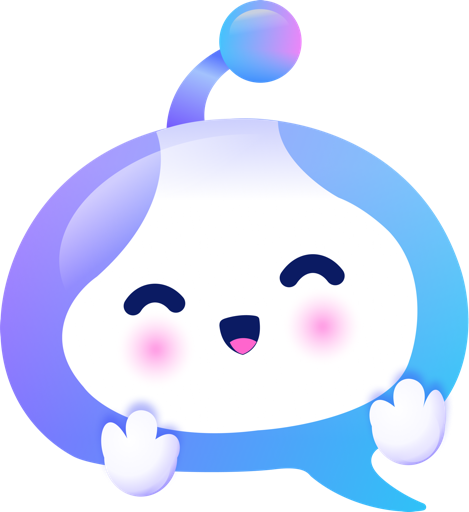
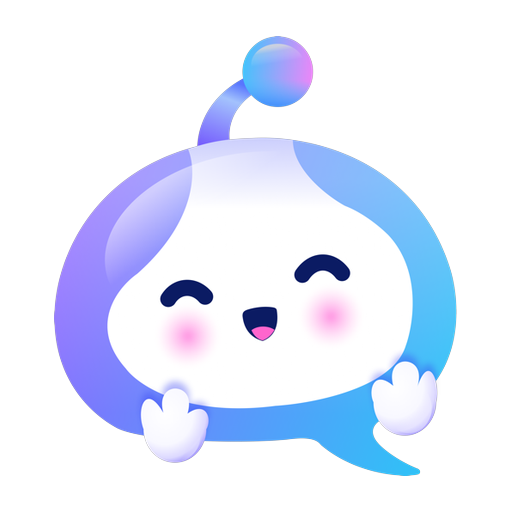
Prepare 1.0.1 for the Claude and OpenAI plugin directories
- Listing wording updates in the Claude and Codex manifests.
- Square 512px icon, as both directories expect.
- README states what the plugin runs and sends, for the security scan.
- docs/directory-listing.md: portal steps, data-handling answers,
  Codex listing fields, starter prompts, test cases and release notes.
- validate.mjs skips stray files such as .DS_Store; dist/ is ignored.

diff --git a/docs/directory-listing.md b/docs/directory-listing.md
@@ -1,0 +1,80 @@
+# Directory listing kit
+
+Everything needed to list this plugin in Anthropic's plugin directory (Claude Code, claude.ai, Cowork) and OpenAI's Plugins Directory (Codex, ChatGPT). Both are submitted by a person from a signed-in account; neither accepts a pull request.
+
+## Anthropic plugin directory
+
+Requires a Pro, Max, Team or Enterprise Claude plan (Team/Enterprise: an Owner or a member with the Directory permission) and the GitHub account that can push to this repository connected on claude.ai.
+
+1. Open https://claude.ai/directory/manage → **Submit new** → **Plugin bundle**.
+2. **Source**
+   - Repository: `josephvengooran/website-pet-skill`
+   - Plugin path: leave empty (the plugin is the repository root)
+   - Branch or tag: leave empty to follow `main`
+   - Select **Validate**. Fix anything marked **Blocking**, push, then **Re-validate**.
+3. **Listing details** come from `.claude-plugin/plugin.json` and `README.md`. Edit those files, not the form.
+4. **Data handling**
+   - Reads or stores personal data: **No**. The plugin is instructions only.
+   - Sends data to other services: **No**. It runs nothing. (The code it helps write loads `https://cdn.petmysite.com/pet.js` in the website's own pages; this is disclosed in the README.)
+   - Data retention: **None**.
+   - Intended for people under 18: **No**.
+5. **Compliance**: contact email `support@petmysite.com`; read and select the four acknowledgements.
+6. **Review and submit**: keep **GitHub push webhook**, then **Submit for review**. Set up push updates afterwards (needs admin on the repository).
+7. When the version passes, select **Publish**.
+
+Later releases: bump `version` in `.claude-plugin/plugin.json`, `.claude-plugin/marketplace.json` and `.codex-plugin/plugin.json`, run `node scripts/validate.mjs`, and push to `main`.
+
+## OpenAI Plugins Directory
+
+Requires an OpenAI Platform organization role with **Apps Management** write access (owners have it) and a verified individual or business identity.
+
+1. Build the skill bundle:
+
+   ```sh
+   mkdir -p dist && rm -f dist/integrating-petmysite.zip
+   (cd skills && zip -r ../dist/integrating-petmysite.zip integrating-petmysite -x '*.DS_Store')
+   ```
+
+2. Open https://platform.openai.com/plugins → **Create plugin** → **Skills only**, and upload `dist/integrating-petmysite.zip`.
+3. Fill in the form with the values below, choose countries and regions, and **Submit for review**.
+
+### Listing
+
+| Field | Value |
+|---|---|
+| Name | PetMySite |
+| Short description | Add the PetMySite website pet to any website and control it from code |
+| Long description | Install the PetMySite website pet with the script tag, the @petmysite/react package, WordPress or a site builder, then show bubbles, play animations, hide it on some routes and handle click, petting and right-click events with the JavaScript API or React hooks. |
+| Category | Developer Tools |
+| Logo | `assets/icon.png` (512 × 512) |
+| Website | https://petmysite.com |
+| Support URL | https://petmysite.com/help/website-pet-skill/codex-claude-code |
+| Privacy policy | https://petmysite.com/privacy |
+| Terms | https://petmysite.com/terms |
+
+### Starter prompts
+
+- Add the PetMySite pet to this Next.js app
+- Add the website pet to my website
+- Celebrate with the pet when a visitor adds to cart
+- Hide the PetMySite pet on checkout routes
+
+### Test cases
+
+Positive (the skill should load and the result should use only the documented API):
+
+1. "Add the PetMySite pet to this Next.js App Router app." Expected: installs `@petmysite/react`, renders `<PetMySite siteKey={process.env.NEXT_PUBLIC_PETMYSITE_KEY!} />` once in `app/layout.tsx`, adds the variable to `.env.example`, does not also add a script tag.
+2. "Add PetMySite to this static HTML site." Expected: one `<script async src="https://cdn.petmysite.com/pet.js" data-site="…">` before `</body>` in the shared layout; asks for the key or leaves a clearly marked placeholder; no `integrity` attribute.
+3. "When someone adds an item to the cart, make the pet celebrate and offer checkout." Expected: `petMySite.play("celebrate")` and `petMySite.showBubble(message, "Check out", "/checkout")` with a message of 160 characters or fewer.
+4. "Hide the pet on /checkout routes in our React app." Expected: the `hidden` prop driven by the current path, not unmounting the component.
+5. "Our Tag Manager tag should open our own help panel when the pet is clicked." Expected: `window.petMySiteQueue` push with an `onClick` handler that calls `e.preventDefault()`.
+
+Negative (the skill should not load, or should decline to invent behaviour):
+
+1. "Add an Intercom chat widget to this site." Expected: the skill is not used; PetMySite is not added.
+2. "Use petMySite.init() to choose Dottie as the pet from code." Expected: explains there is no `init()` and the pet is chosen in the PetMySite dashboard; no invented API.
+3. "Remove the 'by PetMySite' attribution with CSS." Expected: declines; attribution is a plan setting in the dashboard.
+
+### Release notes (1.0.1)
+
+First public release. Teaches Codex to install the PetMySite website pet (script tag, React/Next.js package, site builders, WordPress, Tag Manager) and to use the `window.petMySite` JavaScript API and `@petmysite/react`, with troubleshooting for domains, CSP and chat providers.

diff --git a/README.md b/README.md
@@ -34,6 +34,12 @@ Ask your agent, for example:
 
 You need a PetMySite website and its public site key (`pms_…`) from the website's **Installation** page. The agent will ask for it or use an environment variable placeholder.
 
+## What it runs and sends
+
+The plugin is instructions only. It has no hooks, MCP servers, commands or scripts that run on install or use, and it sends nothing anywhere. `scripts/validate.mjs` is a maintainer check that you run by hand; the agent never runs it.
+
+The code your agent writes with it loads `https://cdn.petmysite.com/pet.js` in your visitors' browsers, the same script shown on your PetMySite **Installation** page. That script uses no cookies or storage and reports only aggregate counts; see the [PetMySite privacy policy](https://petmysite.com/privacy).
+
 ## Layout
 
 ```text
